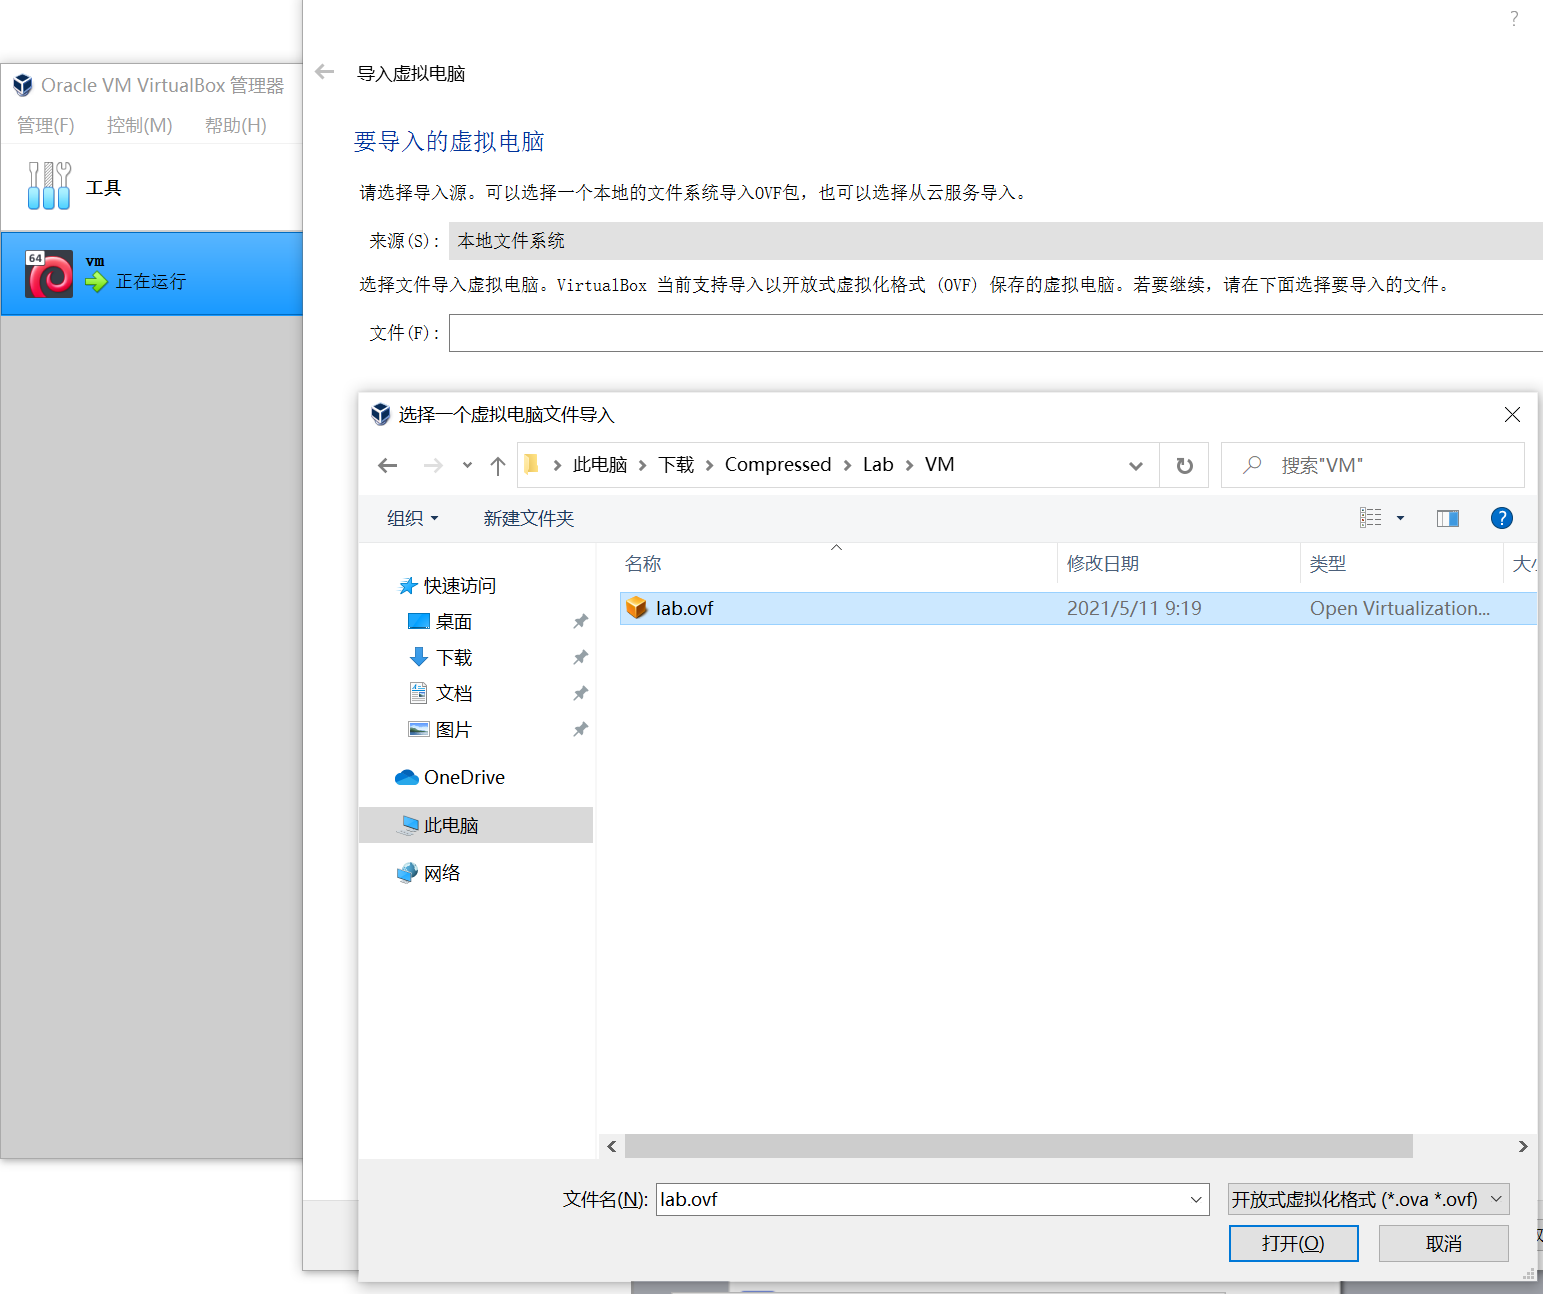
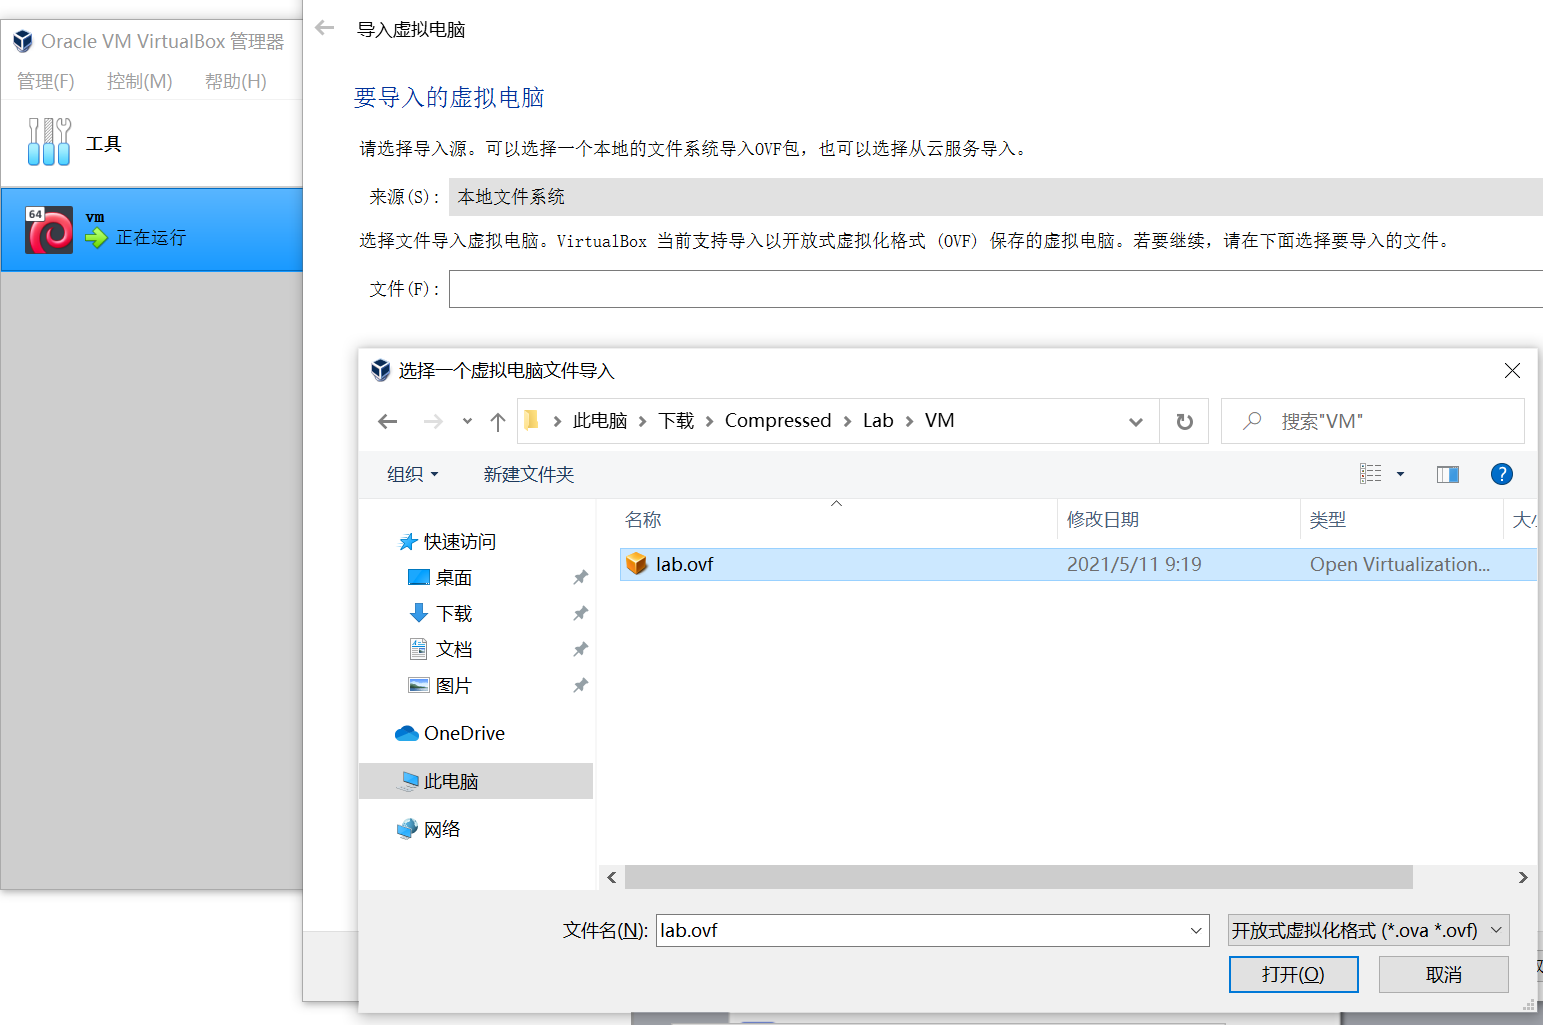
fix pics

diff --git a/site/trace/vm/index.html b/site/trace/vm/index.html
@@ -1348,9 +1348,9 @@
 <p><img alt="image-20210704155051556" src="../assets/vm-1.png" /></p>
 <h2 id="3">3. 配置虚拟网卡</h2>
 <p>&emsp;&emsp;VirtualBox中对于虚拟网卡，需要稍微配置一下才可以使用，具体的配置如下：</p>
-<p><img alt="image-20210704153913729" src="../assets/vm-2.png" /></p>
-<p><img alt="image-20210704153926882" src="../assets/vm-3.png" /></p>
-<p><img alt="image-20210704153948742" src="../assets/vm-4.png" /></p>
+<p><center><img src = "../assets/vm-2.png" width = 550></center></p>
+<p><center><img src = "../assets/vm-3.png" width = 700></center></p>
+<p><center><img src = "../assets/vm-4.png" width = 700></center></p>
 <h2 id="4-mobaxterm">4. 使用MobaXTerm</h2>
 <p>&emsp;&emsp;为了更好的使用体验，推荐使用MobaXTerm通过ssh连接到本地的虚拟机进行进一步的操作。压缩包里提供了MobaXTerm。</p>
 <p>&emsp;&emsp;在MobaXTerm中，点击左上角“会话”。</p>

diff --git a/docs/trace/vm.md b/docs/trace/vm.md
@@ -19,11 +19,11 @@
 
 &emsp;&emsp;VirtualBox中对于虚拟网卡，需要稍微配置一下才可以使用，具体的配置如下：
 
-![image-20210704153913729](assets/vm-2.png)
+<center><img src = "../assets/vm-2.png" width = 550></center>
 
-![image-20210704153926882](assets/vm-3.png)
+<center><img src = "../assets/vm-3.png" width = 700></center>
 
-![image-20210704153948742](assets/vm-4.png)
+<center><img src = "../assets/vm-4.png" width = 700></center>
 
 ## 4. 使用MobaXTerm
 
